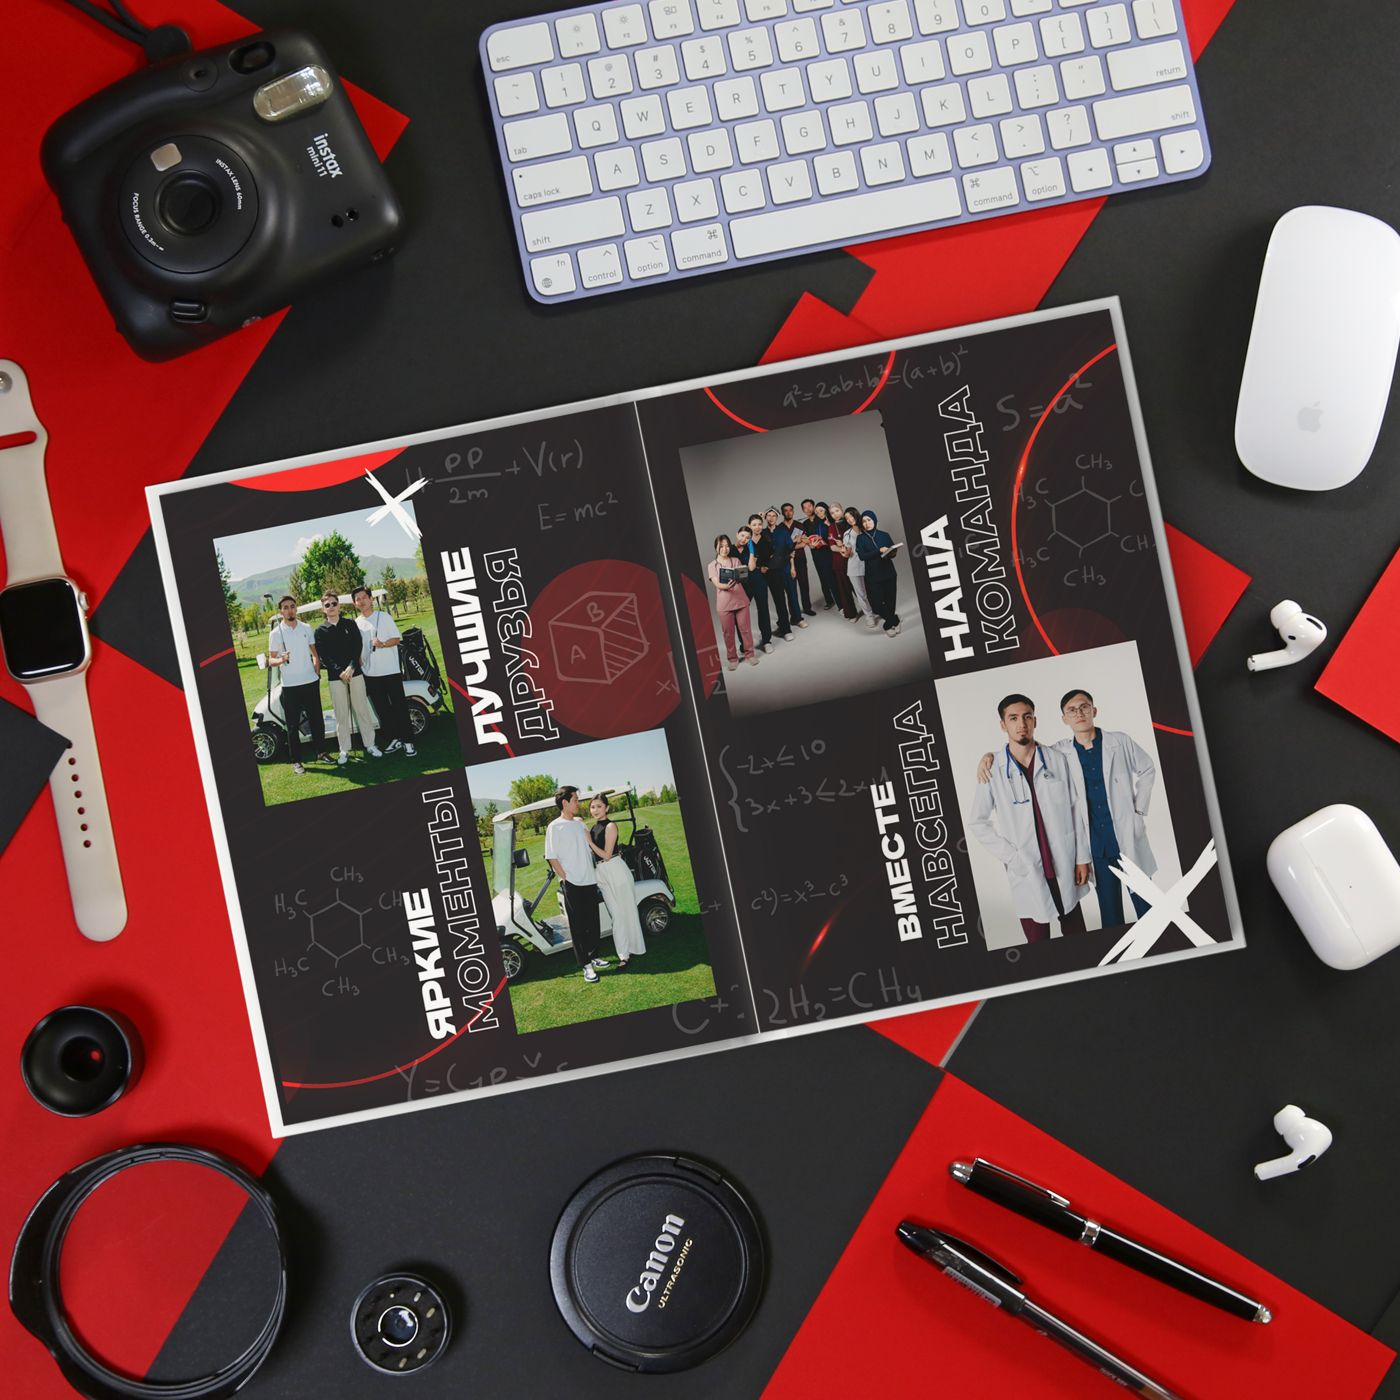
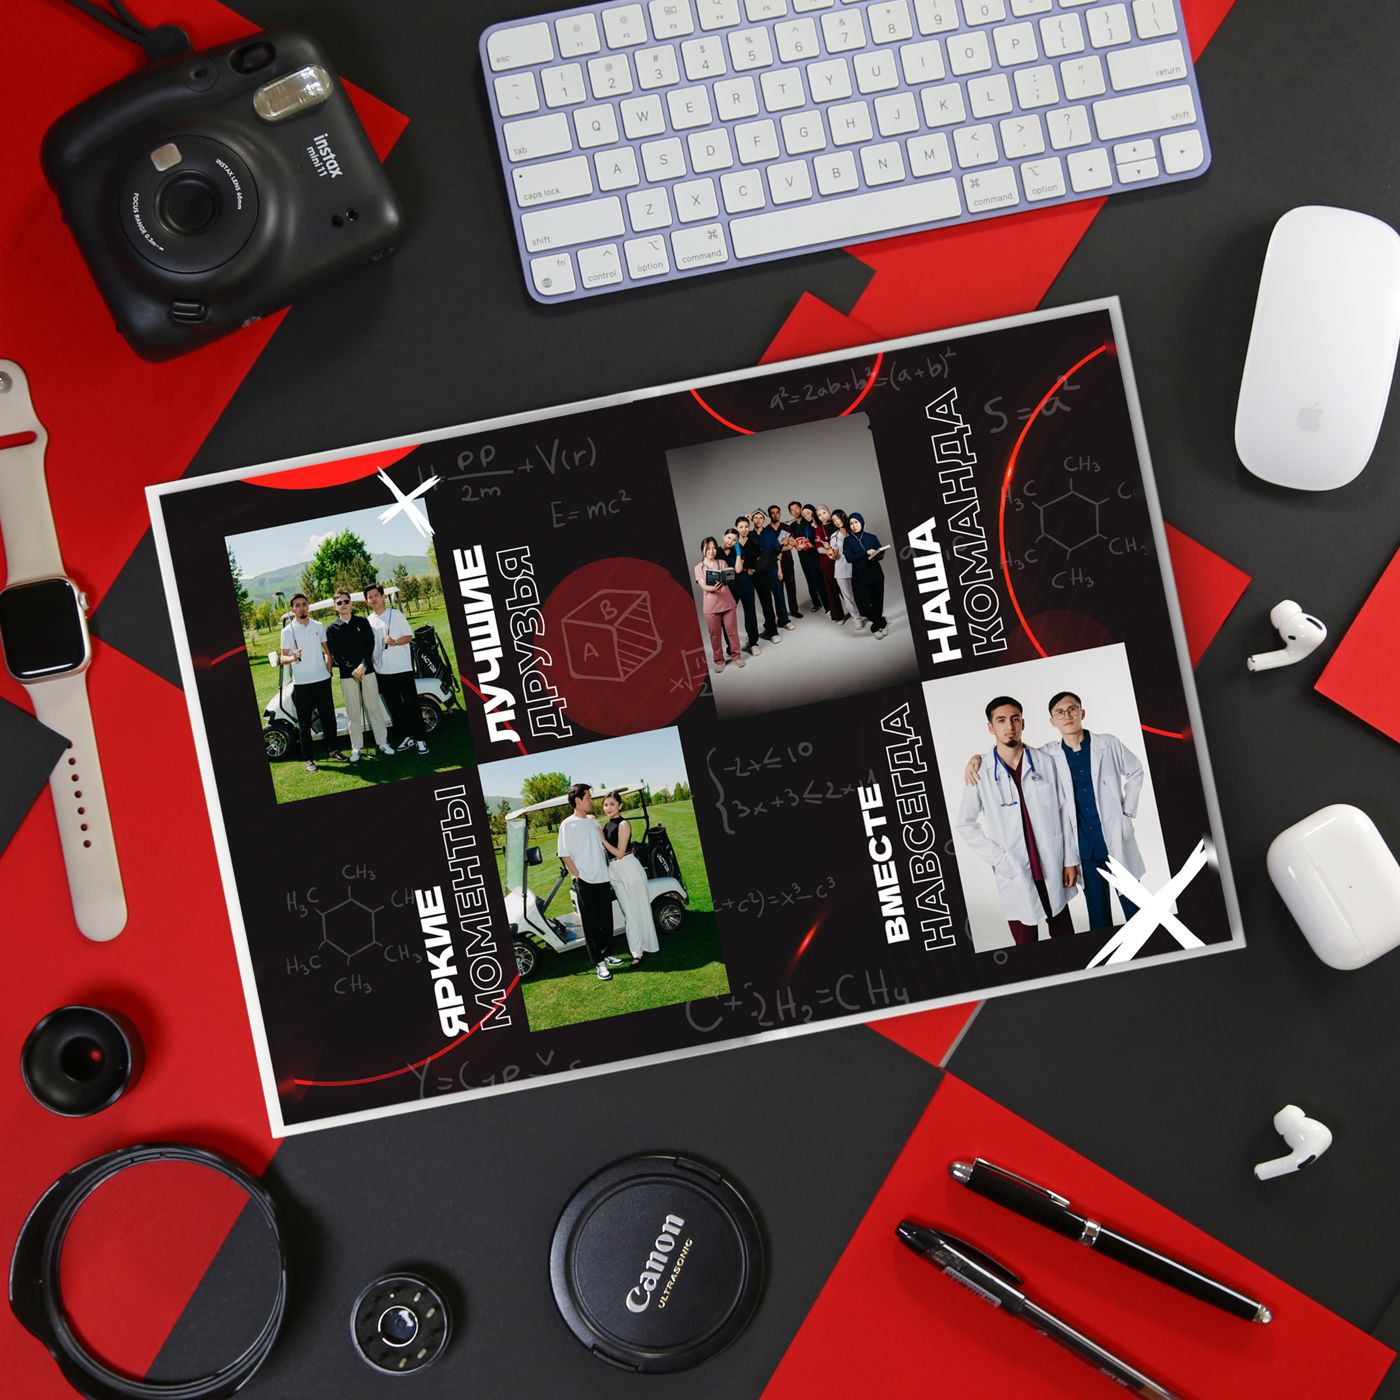
Развороты без сгиба и полосы по центру (lay-flat)

Changed region(s): [[0.1229, 0.2457, 0.86, 0.7986]]

diff --git a/index.html b/index.html
@@ -9,7 +9,7 @@
   <link rel="preconnect" href="https://fonts.gstatic.com" crossorigin>
   <link href="https://fonts.googleapis.com/css2?family=Unbounded:wght@300;400;600&family=Manrope:wght@400;500;700&display=swap" rel="stylesheet">
   <link rel="icon" type="image/svg+xml" href="img/favicon.svg">
-  <link rel="stylesheet" href="styles.css?v=7">
+  <link rel="stylesheet" href="styles.css?v=8">
 </head>
 <body>
   <div class="watermark" aria-hidden="true"><span>L</span><span>U</span><span>M</span><span>I</span></div>
@@ -317,8 +317,8 @@
     <p id="lightboxCaption"></p>
   </dialog>
 
-  <script src="content.js?v=7"></script>
-  <script src="calc.js?v=7"></script>
-  <script src="app.js?v=7"></script>
+  <script src="content.js?v=8"></script>
+  <script src="calc.js?v=8"></script>
+  <script src="app.js?v=8"></script>
 </body>
 </html>
